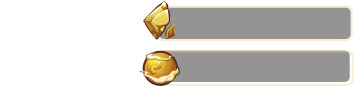
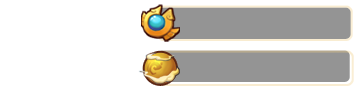
加入和替换荣誉及精元图片

Changed region(s): [[0.3729, 0.0, 0.5282, 0.4884]]

diff --git a/client/cocos2d-x-2.2.1/projects/Magpie/Resources/src/resource.js b/client/cocos2d-x-2.2.1/projects/Magpie/Resources/src/resource.js
@@ -725,6 +725,8 @@ var main_scene_image = {
     icon407: main_scene_path + "icon407.png",
     icon408: main_scene_path + "icon408.png",
     icon409: main_scene_path + "icon409.png",
+    icon410: main_scene_path + "icon410.png",
+    icon411: main_scene_path + "icon411.png",
 
     card30000_head1: main_scene_path + "card30000_head1.png",
     card30000_half1: main_scene_path + "card30000_half1.png",

diff --git a/client/cocos2d-x-2.2.1/projects/Magpie/Resources/src/view/mainModule/giftBagLayer.js b/client/cocos2d-x-2.2.1/projects/Magpie/Resources/src/view/mainModule/giftBagLayer.js
@@ -54,12 +54,12 @@ var giftBagGoods = {
 
     honor: {
         name: "荣誉",
-        url: "icon405"
+        url: "icon410"
     },
 
     superHonor: {
         name: "精元",
-        url: "icon406"
+        url: "icon411"
     }
 };
 
